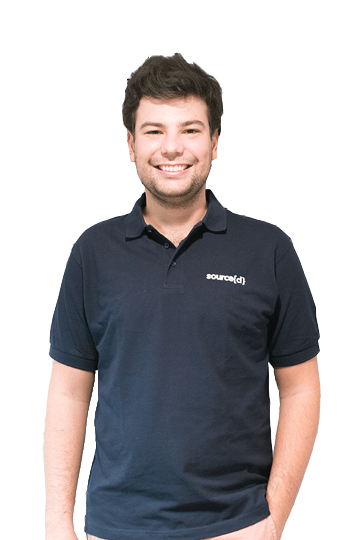
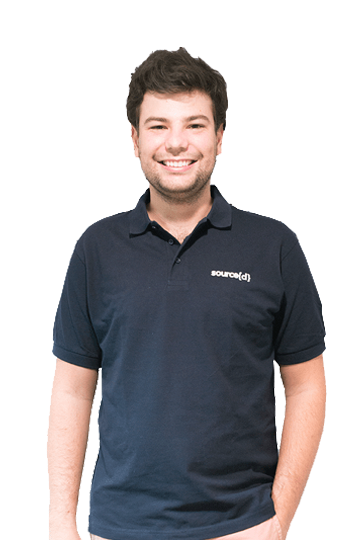
Implement 'head out-of-the-box' feature

diff --git a/hugo/layouts/partials/team/members.html b/hugo/layouts/partials/team/members.html
@@ -1,28 +1,30 @@
 {{ range $m := $.group.members }}
+    {{ $alt := "%s profile at %s" }}
+    {{ if $m.github }}
+        {{ $.scratch.Set "href" $m.github }}
+        {{ $.scratch.Set "alt" ( printf $alt $m.name "GitHub" ) }}
+        {{ $.scratch.Set "icon" "github-filled" }}
+    {{ else if $m.linkedin }}
+        {{ $.scratch.Set "href" $m.linkedin }}
+        {{ $.scratch.Set "alt" ( printf $alt $m.name "LinkedIn" ) }}
+        {{ $.scratch.Set "icon" "social/linkedin" }}
+    {{ end }}
     <article class="circle-list__section__group__item">
-        <figure>
-            <img src="/img/people/{{ $m.picture }}" alt="Picture of {{ $m.name }}" />
-        </figure>
-        <address>
-            {{ $alt := "%s profile at %s" }}
-            {{ if $m.github }}
-                {{ $.scratch.Set "href" $m.github }}
-                {{ $.scratch.Set "alt" ( printf $alt $m.name "GitHub" ) }}
-                {{ $.scratch.Set "icon" "github-filled" }}
-            {{ else if $m.linkedin }}
-                {{ $.scratch.Set "href" $m.linkedin }}
-                {{ $.scratch.Set "alt" ( printf $alt $m.name "LinkedIn" ) }}
-                {{ $.scratch.Set "icon" "social/linkedin" }}
-            {{ end }}
-            <a href="{{ $.scratch.Get "href" }}" title="{{ $.scratch.Get "alt" }}"
-                target="_blank" class="circle-list__section__group__item__person__social"
-            >
+        <a href="{{ $.scratch.Get "href" }}" title="{{ $.scratch.Get "alt" }}"
+            target="_blank" class="circle-list__section__group__item__picture-area"
+        >
+            {{ partial "team/person-circle.svg" $m.picture }}
+            <address>
                 {{ partial "svg" ( $.scratch.Get "icon" ) }}
                 <span class="sr">{{ $.scratch.Get "alt" }}</span>
-            </a>
-        </address>
+            </address>
+        </a>
         <div class="circle-list__section__group__item__info">
-            <h2>{{ $m.name }}</h2>
+            <h2>
+                <a href="{{ $.scratch.Get "href" }}" title="{{ $.scratch.Get "alt" }}" target="_blank">
+                    {{ $m.name }}
+                </a>
+            </h2>
             <span class="circle-list__section__group__item__info__subtitle">{{ $m.position }}</span>
             {{ if ne $.group.teamName "" }}
                 <span class="circle-list__section__group__item__info__sub-subtitle">{{ $.group.teamName }}</span>

diff --git a/src/sass/pages/team.scss b/src/sass/pages/team.scss
@@ -4,21 +4,24 @@
     }
 
     .circle-list {
-        figure img {
-            position: absolute;
-            top: -20px;
-            left: -35px;
-            width: 135%;
+        &__section__group__item__picture-area {
+            display: block;
+            position: relative;
+            width: $width-person-card-image;
+            height: $height-person-card-image;
+            margin: 0 auto;
+            cursor: pointer;
         }
 
         address {
-            $circle-shift: $size-circle-image - $size-team-social + $size-team-social-shift;
             position: absolute;
-            top: $circle-shift;
-            left: $circle-shift + (grid-size(3) - $size-circle-image) / 2;
+            bottom: $size-team-social-shift;
+            right: $size-team-social-shift;
             width: $size-team-social;
+            display: block;
 
             svg {
+                display: block;
                 fill: $color-pill-button-main;
 
                 g {
@@ -30,5 +33,32 @@
                 @include sr-only;
             }
         }
+
+        h2 > a {
+            text-decoration: none;
+            cursor: pointer;
+        }
+    }
+}
+
+.person-circle {
+    $image-width: $ratio-person-card-image * $width-person-card-image;
+    width: $width-person-card-image;
+    height: $height-person-card-image;
+
+    image.person-circle__image {
+        x: - ($image-width - $width-person-card-image) / 2;
+        y: $margin-top-person-card-image;
+        width: $image-width;
+    }
+
+    &__background {
+        fill: $color-card-background;
+    }
+
+    &__border {
+        stroke-width: $border-width-person-card;
+        stroke: $color-lightest-grey;
+        fill: transparent;
     }
 }

diff --git a/src/sass/shared/variables.scss b/src/sass/shared/variables.scss
@@ -7,6 +7,7 @@ $color-medium-grey: #e6e9ec;
 $color-pale-grey: #ecf0f1;
 $color-light-greysh: #EBF0F1;
 $color-light-grey: #737373;
+$color-lightest-grey: #E8ECED;
 $color-white: white;
 
 $color-pill-button-main: $color-light-blue;
@@ -206,6 +207,7 @@ $size-circles-between-groups: 60px;
 $size-circles-below-group-name: 45px;
 $size-circles-above-item-title: 15px;
 $size-circles-below-item-title: 15px;
+$margin-top-person-card-image: -30px;
 
 $size-stack-between-groups: 120px;
 $size-stack-below-group-name: 60px;
@@ -306,9 +308,12 @@ $size-projects-title-icon-spacing: 7px;
 $height-hero-info: 465px;
 
 $size-team-social: 30px;
-$size-team-social-shift: 5px;
+$size-team-social-shift: -5px;
 
 $max-width-circles-info: 240px;
+$ratio-person-card-image: 1.4;
+$width-person-card-image: 200px;
+$height-person-card-image: 220px;
 
 $height-stack-pipeline: 45px;
 $width-stack-pipeline: 28px;
@@ -342,4 +347,5 @@ $transition-main-time: .3s;
 $transition-main-effect: ease-in;
 
 // Borders
-$border-person-card: 5px solid #E8ECED;
+$border-width-person-card: 4px;
+$border-person-card: $border-width-person-card solid $color-lightest-grey;

diff --git a/hugo/layouts/team/single.html b/hugo/layouts/team/single.html
@@ -34,6 +34,8 @@
         {{ end }}
     </div>
 
+    {{ partial "team/person-mask.svg" }}
+
     {{ partial "footer.html" $footerCtx }}
 </body>
 </html>
